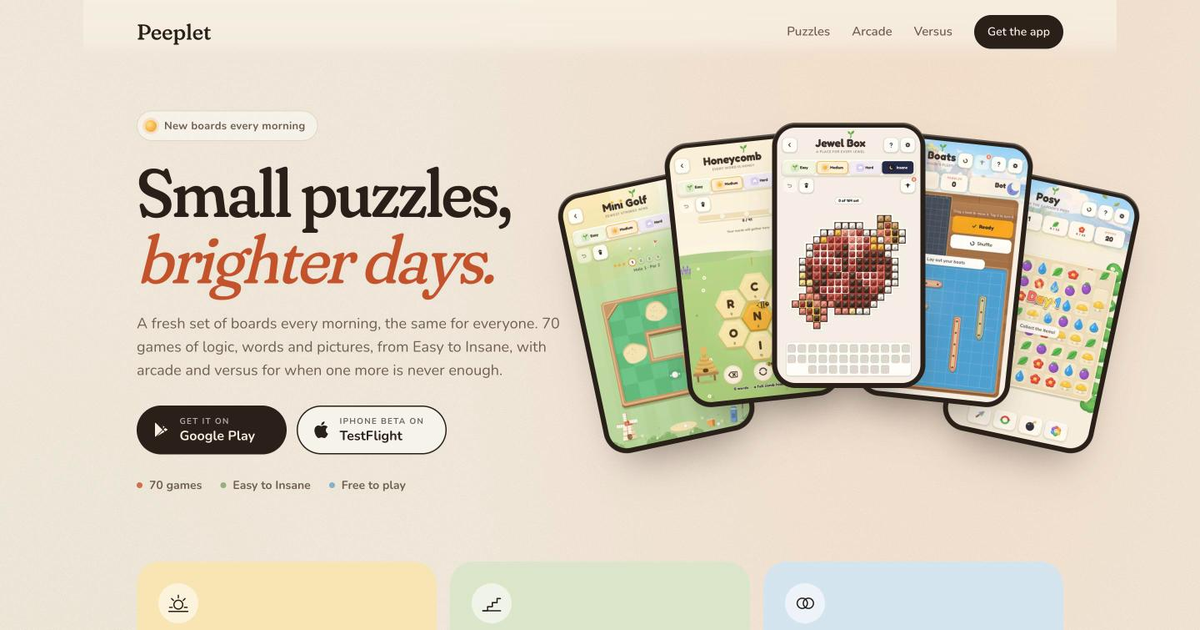
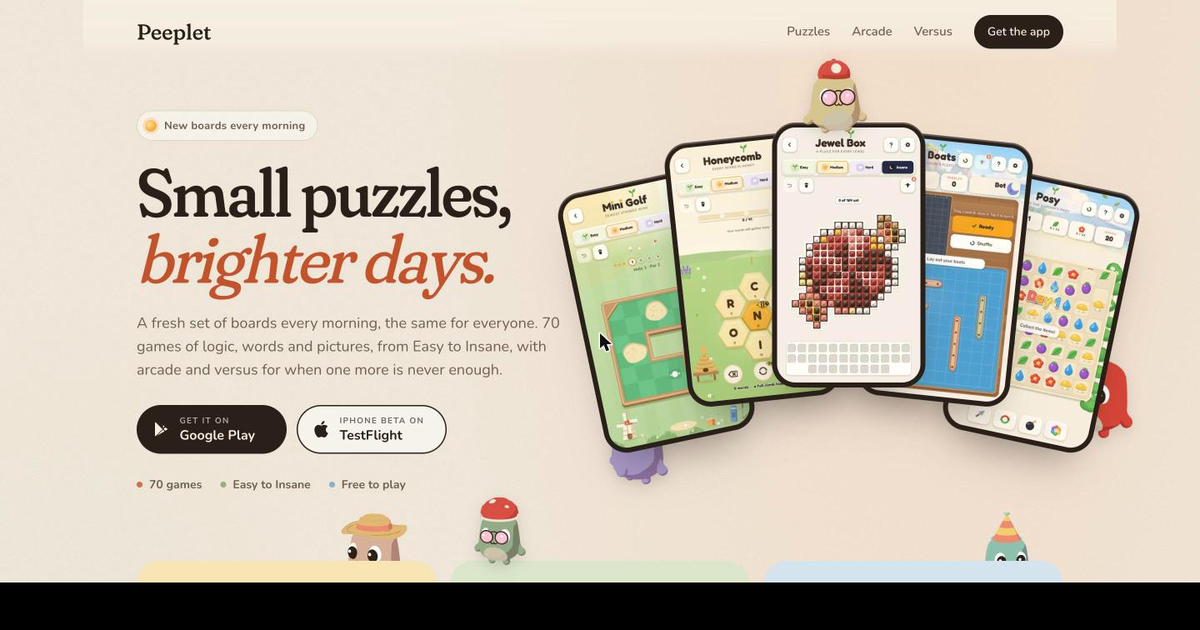
feat(site): Peeplets on the page -- the user, 2026-10-30: missing some, then wanted them natural, perched, sitting, hiding. Eight renders of the live model (tests/_shot_site_peeplets.gd, one transparent SubViewport each; gen_games.py straightens and trims them to public/peeplets): one sits on the mi

diff --git a/web/src/app/globals.css b/web/src/app/globals.css
@@ -242,6 +242,37 @@ h1 em { font-style: italic; font-weight: 400; color: var(--accent); }
   }
 }
 
+/* The Peeplets: rendered from the live model and let loose on the page,
+   perched on an edge, peeking over one, hiding behind a phone. Heights only;
+   each keeps its own proportions. A `behind` Peeplet is painted under its
+   parent's background (z-index -1 in main's stacking context), so the parent
+   must set no z-index of its own. */
+.peep {
+  position: absolute;
+  width: auto;
+  pointer-events: none;
+  user-select: none;
+  filter: drop-shadow(0 6px 8px rgba(42, 32, 25, .14));
+}
+.peep.behind { z-index: -1; filter: none; }
+.peep.flip { transform: scaleX(-1); }
+/* Sitting on the middle phone's top edge, legs over the bezel. */
+.at-fan-top { left: 50%; top: 0; height: 92px; margin: -78px 0 0 -56px; z-index: 4; animation: settle .9s var(--ease) .5s both; }
+/* Hiding behind the rightmost phone, half of it peeking out. */
+.at-fan-right { right: -17%; bottom: 12%; height: 96px; z-index: 0; transform: scaleX(-1) rotate(-6deg); }
+/* Watching from the floor, its far side behind the leftmost phone. */
+.at-fan-left { left: -6%; bottom: -4px; height: 100px; z-index: 0; }
+/* Peeking over a card's top edge from behind. */
+.at-card-peek { top: -58px; right: 34px; height: 96px; }
+/* Standing on a card's top edge. */
+.at-card-stand { bottom: calc(100% - 6px); left: 28px; height: 84px; z-index: 1; }
+/* Sitting on the shelf header's rule line. */
+.at-shelf { right: 120px; bottom: -13px; height: 72px; z-index: 1; }
+/* Bouncing on the closing card's top edge. */
+.at-close-top { right: 14%; bottom: calc(100% - 10px); height: 120px; z-index: 1; }
+/* Peeking out from behind the closing card's left edge. */
+.at-close-side { left: -40px; bottom: 36px; height: 108px; }
+
 /* The three reasons */
 .pillars {
   display: grid;
@@ -252,6 +283,7 @@ h1 em { font-style: italic; font-weight: 400; color: var(--accent); }
   padding: 0 var(--gutter) clamp(56px, 7vw, 96px);
 }
 .pillar {
+  position: relative;
   padding: 26px 26px 28px;
   border-radius: var(--r-xl);
   background: var(--paper-deep);
@@ -280,6 +312,7 @@ h1 em { font-style: italic; font-weight: 400; color: var(--accent); }
   scroll-margin-top: 72px;
 }
 .shelf header {
+  position: relative;
   display: flex;
   align-items: flex-end;
   justify-content: space-between;
@@ -325,6 +358,7 @@ h1 em { font-style: italic; font-weight: 400; color: var(--accent); }
 /* The close */
 .close { max-width: var(--wide); margin: 0 auto; padding: 8px var(--gutter) clamp(56px, 8vw, 104px); scroll-margin-top: 72px; }
 .close-card {
+  position: relative;
   padding: clamp(40px, 6vw, 80px) var(--gutter);
   border-radius: var(--r-xl);
   background:
@@ -336,6 +370,7 @@ h1 em { font-style: italic; font-weight: 400; color: var(--accent); }
 .close-card h2 { font-size: clamp(34px, 5vw, 64px); letter-spacing: -.025em; line-height: 1.02; margin-bottom: 14px; text-wrap: balance; }
 .close-card p { max-width: 34em; margin: 0 auto 28px; color: var(--dim); font-size: 17px; }
 .close-card .get { justify-content: center; }
+.close-card h2, .close-card p, .close-card .get { position: relative; }
 
 footer {
   max-width: var(--wide);
@@ -352,7 +387,9 @@ footer p { display: flex; flex-wrap: wrap; gap: 6px 20px; margin: 0 0 8px; }
 @media (max-width: 900px) {
   .hero { grid-template-columns: 1fr; gap: 8px; }
   .fan { --w: clamp(120px, 24vw, 170px); margin-top: 28px; }
-  .pillars { grid-template-columns: 1fr; }
+  .pillars { grid-template-columns: 1fr; gap: 48px; }
+  .at-shelf { display: none; }
+  .at-close-side { display: none; }
   /* A shelf scrolls sideways on a phone, so seventy games stay a short page. */
   .shelf ol {
     display: flex;
@@ -376,9 +413,15 @@ footer p { display: flex; flex-wrap: wrap; gap: 6px 20px; margin: 0 0 8px; }
   .store { width: 100%; justify-content: flex-start; padding-left: 22px; }
   .fan { --w: clamp(104px, 34vw, 140px); --step: .72; --lean: 8deg; }
   .phone:nth-child(1), .phone:nth-child(5) { display: none; }
+  .at-fan-top { height: 76px; margin: -64px 0 0 -46px; }
+  .at-fan-left { height: 80px; left: -8%; }
+  .at-fan-right { height: 78px; right: -20%; }
+  .at-card-peek { height: 80px; top: -48px; right: 22px; }
+  .at-card-stand { height: 72px; }
+  .at-close-top { height: 96px; right: 10%; }
 }
 @media (prefers-reduced-motion: reduce) {
   html { scroll-behavior: auto; }
-  .phone { animation: none; }
+  .phone, .peep { animation: none; }
   .store, .pill, .plate { transition: none; }
 }

diff --git a/web/src/app/[locale]/page.tsx b/web/src/app/[locale]/page.tsx
@@ -2,6 +2,7 @@ import Image from "next/image";
 import { getTranslations, setRequestLocale } from "next-intl/server";
 import { routing } from "@i18n/routing";
 import { GameList } from "@/components/GameList";
+import { Peeplet } from "@/components/Peeplet";
 import { StoreButtons } from "@/components/StoreButtons";
 import { GAMES, HERO_PHONES, langOf, type Group } from "@/lib/games";
 import { appJsonLd } from "@/lib/seo";
@@ -16,6 +17,7 @@ const PILLARS = [
   {
     key: "Morning",
     tone: "butter",
+    peeplet: <Peeplet name="sunhat" className="at-card-peek behind" />,
     glyph: (
       <svg viewBox="0 0 32 32" aria-hidden="true">
         <circle cx="16" cy="18" r="6.5" />
@@ -27,6 +29,7 @@ const PILLARS = [
   {
     key: "Levels",
     tone: "sage",
+    peeplet: <Peeplet name="mushroom" className="at-card-stand" />,
     glyph: (
       <svg viewBox="0 0 32 32" aria-hidden="true">
         <path d="M3 27h7v-6h7v-6h7V9h5" />
@@ -37,6 +40,7 @@ const PILLARS = [
   {
     key: "Together",
     tone: "sky",
+    peeplet: <Peeplet name="party" className="at-card-peek behind" />,
     glyph: (
       <svg viewBox="0 0 32 32" aria-hidden="true">
         <circle cx="12" cy="16" r="7.5" />
@@ -100,12 +104,16 @@ export default async function Page({ params }: { params: Promise<{ locale: strin
                 />
               </figure>
             ))}
+            <Peeplet name="reader" className="at-fan-top" />
+            <Peeplet name="watcher" className="at-fan-left" />
+            <Peeplet name="coral" className="at-fan-right" />
           </div>
         </section>
 
         <section className="pillars" aria-label={t("navLabel")}>
           {PILLARS.map((pillar) => (
             <article key={pillar.key} className={`pillar ${pillar.tone}`}>
+              {pillar.peeplet}
               <span className="glyph">{pillar.glyph}</span>
               <h2>{t(`pillar${pillar.key}Title`)}</h2>
               <p>{t(`pillar${pillar.key}Text`)}</p>
@@ -125,12 +133,15 @@ export default async function Page({ params }: { params: Promise<{ locale: strin
               games={games}
               lang={lang}
               shotOf={(name) => t("shotAlt", { name })}
+              peeplet={group === "puzzles" ? <Peeplet name="flowers" className="at-shelf" /> : null}
             />
           );
         })}
 
         <section className="close" id="get">
           <div className="close-card">
+            <Peeplet name="laugh" className="at-close-top" />
+            <Peeplet name="coral" className="at-close-side behind flip" />
             <h2>{t("closeTitle")}</h2>
             <p>{t("closeText")}</p>
             <StoreButtons />

diff --git a/web/src/components/Peeplet.tsx b/web/src/components/Peeplet.tsx
@@ -1,0 +1,30 @@
+import Image from "next/image";
+
+// The page's Peeplets, rendered from the live model by
+// tests/_shot_site_peeplets.gd and cut by scripts/gen_games.py; the sizes
+// are the trimmed renders'. Decorative: no alt, hidden from readers.
+const SIZES: Record<string, [number, number]> = {
+  coral: [232, 247],
+  flowers: [216, 255],
+  laugh: [220, 336],
+  mushroom: [241, 317],
+  party: [242, 336],
+  reader: [249, 290],
+  sunhat: [245, 289],
+  watcher: [220, 302],
+};
+
+export function Peeplet({ name, className }: { name: keyof typeof SIZES; className: string }) {
+  const [width, height] = SIZES[name];
+  return (
+    <Image
+      className={`peep ${className}`}
+      src={`/peeplets/${name}.webp`}
+      alt=""
+      aria-hidden="true"
+      width={width}
+      height={height}
+      loading="lazy"
+    />
+  );
+}

diff --git a/web/src/components/GameList.tsx b/web/src/components/GameList.tsx
@@ -9,12 +9,13 @@ type Props = {
   games: Game[];
   lang: Lang;
   shotOf: (name: string) => string;
+  peeplet?: React.ReactNode;
 };
 
 // One shelf of games: a tile each, its screen on a plate tinted from the
 // screen's own colours, its name and one line under it. A grid on a desk, a
 // row that scrolls sideways on a phone.
-export function GameList({ id, title, intro, count, games, lang, shotOf }: Props) {
+export function GameList({ id, title, intro, count, games, lang, shotOf, peeplet }: Props) {
   return (
     <section className="shelf" id={id}>
       <header>
@@ -23,6 +24,7 @@ export function GameList({ id, title, intro, count, games, lang, shotOf }: Props
           <p>{intro}</p>
         </div>
         <span className="chip">{count}</span>
+        {peeplet}
       </header>
       <ol>
         {games.map((game) => (

diff --git a/web/scripts/gen_games.py b/web/scripts/gen_games.py
@@ -81,3 +81,22 @@ for id_ in HERO:
     shot = Image.open(ROOT / f"build/site_shots/{id_}.png").convert("RGB")
     shot.resize((405, 720), Image.LANCZOS).save(WEB / f"public/phones/{id_}.webp", quality=84)
 print(len(games), "games")
+
+# The page's Peeplets (the user, 2026-10-30), rendered by
+# tests/_shot_site_peeplets.gd into build/site_peeplets: the viewport hands
+# them over premultiplied, so they are straightened, trimmed and saved with
+# their alpha. Never hand-edited.
+PEEPLETS = ROOT / "build/site_peeplets"
+(WEB / "public/peeplets").mkdir(parents=True, exist_ok=True)
+for png in sorted(PEEPLETS.glob("*.png")):
+    im = Image.open(png).convert("RGBA")
+    px = im.load()
+    for y in range(im.height):
+        for x in range(im.width):
+            r, g, b, a = px[x, y]
+            if 0 < a < 255:
+                px[x, y] = (min(255, r * 255 // a), min(255, g * 255 // a), min(255, b * 255 // a), a)
+    box = im.getbbox()
+    im = im.crop((box[0] - 4, max(0, box[1] - 4), box[2] + 4, min(im.height, box[3] + 4)))
+    im.save(WEB / f"public/peeplets/{png.stem}.webp", quality=92, method=6)
+    print(png.stem, im.size)

diff --git a/docs/agents/website.md b/docs/agents/website.md
@@ -41,8 +41,22 @@ chrome stays quiet:
   `server/public_site`, which `server/firebase.json` now serves.
   `tools/deploy_site.sh` builds and deploys and is run by a person. Before
   deploying by hand, build first: the folder is ignored by git.
-- **The Peeplet is not on the page**: the rule against baking one to an image
-  has no web exception yet, so that is the user's call.
+- **The Peeplets on the page** (the user, 2026-10-30: "i'm missing some
+  peeplets around the page", then "more natural on the page, like above
+  elements, sitting somewhere, hiding"): eight renders of the live model by
+  `tests/_shot_site_peeplets.gd` (windowed, `--resolution 1600x800`), each
+  saved from its own transparent SubViewport to `build/site_peeplets/`;
+  `gen_games.py` un-premultiplies, trims and writes `public/peeplets/*.webp`.
+  Never hand-drawn, never hand-edited: this is the web's one exception to
+  the no-baked-Peeplet rule, like the painter's sheet. `src/components/Peeplet.tsx`
+  places one by class: perched on the middle phone (`reader`), watching from
+  the floor half behind the left phone (`watcher`), hiding behind the right
+  phone (`coral`, mirrored), peeking over a card's top edge from behind
+  (`sunhat`, `party`; class `behind` = z-index -1, so the parent sets no
+  z-index of its own), standing on a card (`mushroom`), sitting on the
+  Puzzles shelf's rule (`flowers`), bouncing on the closing card's top edge
+  (`laugh`), peeking from behind its left edge (`coral` again). Re-render
+  after any change to the Peeplet's look.
 - **Store links** live in `web/src/lib/siteUrl.ts` and the message files. Android
   links to the live Play listing; the iPhone link is TestFlight until the App
   Store page exists.

diff --git a/CLAUDE.md b/CLAUDE.md
@@ -20,10 +20,13 @@ day's pair (`core/cast.gd`) sits on Hidden Word's card and reveal, Streak's
 Today card, the remove-ads sheet and the boot opening; nothing else does,
 never the header. Never redraw a Peeplet by hand or bake it to an image.
 
-**The one baked Peeplet** (2026-10-27): `server/functions/assets/peeplet_sheet.png`,
+**The baked Peeplets** (2026-10-27): `server/functions/assets/peeplet_sheet.png`,
 the reference the night's painter and reviewer are given. It is rendered by
 `tests/_shot_peeplet_sheet.gd`, never hand-edited, never on a phone
-(`docs/art/peeplet-brand.md`).
+(`docs/art/peeplet-brand.md`). The website's eight (2026-10-30, the user's
+call) are the same kind of thing: `tests/_shot_site_peeplets.gd` renders
+them, `web/scripts/gen_games.py` cuts them, nobody draws or edits one
+(`docs/agents/website.md`).
 
 ## Boards that left
 
